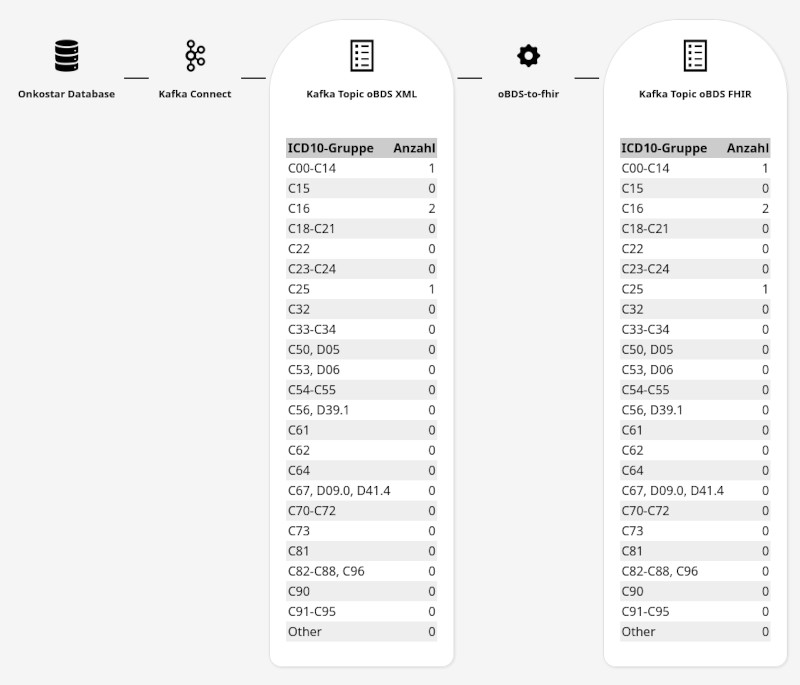
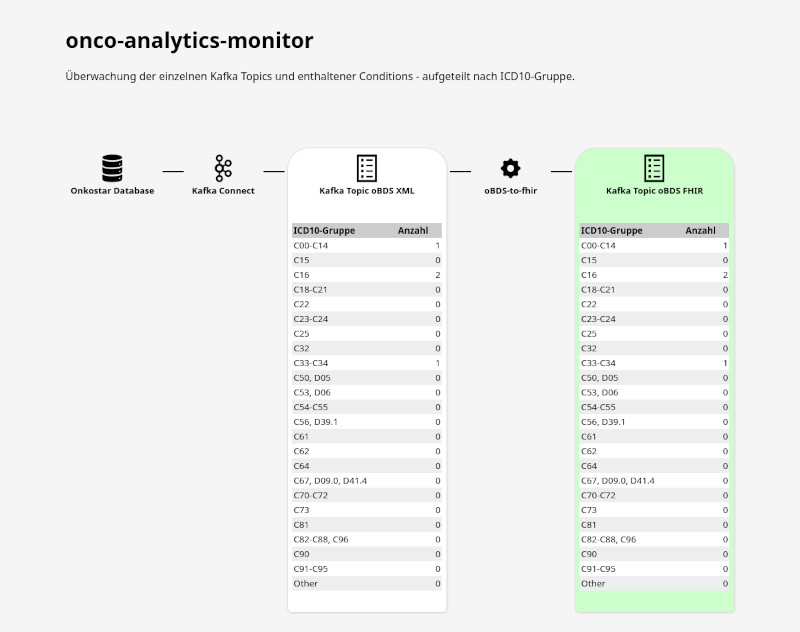
docs: update screenshot and description

diff --git a/README.md b/README.md
@@ -3,4 +3,12 @@
 Diese Anwendung überwacht die konfigurierten Topics, ermittelt die Anzahl der Conditions nach ICD10-Gruppe sortiert
 und zeigt diese in Echtzeit an.
 
+Bei Änderungen wird die Tabelle des entsprechenden Topics kurz hervorgehoben.
+
 ![Screenshot](docs/screenshot.jpeg)
+
+## Datenquellen und Datenhaltung
+
+Es wird keine Datenbank benötigt. Alle Informationen werden aus den Kafka Topics bezogen. Dabei werden beim Neustart der
+Anwendung alle verfügbaren Records aus den Topics neu eingelesen, initiale Statistiken erstellt, welche bei neu
+eingehenden Records aktualisiert werden.
